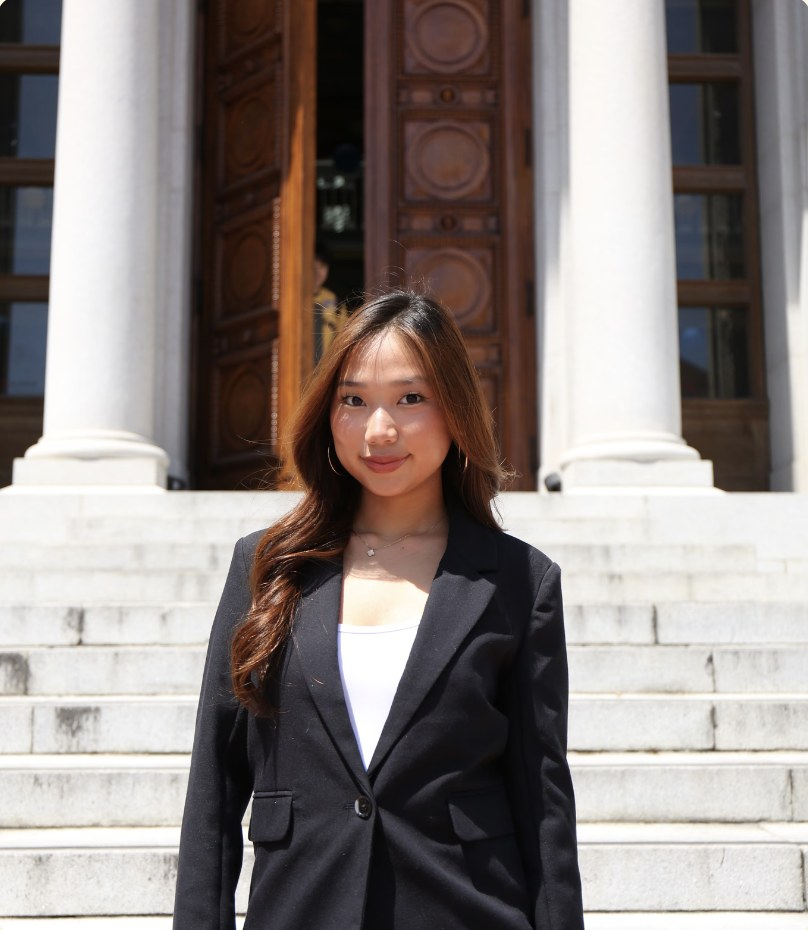
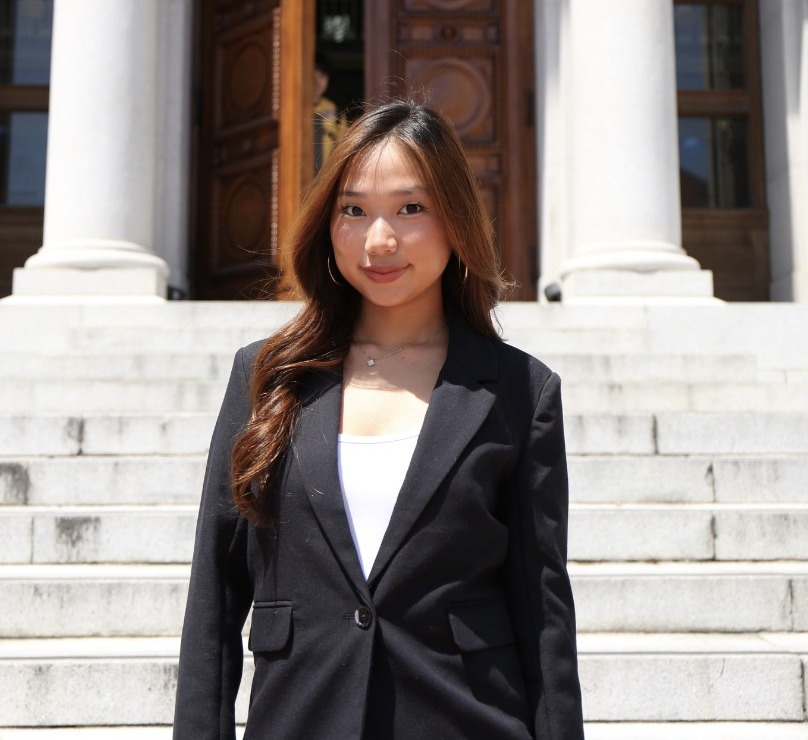
Add files via upload

diff --git a/index.html b/index.html
@@ -18,7 +18,7 @@
 <body>
 <div class="site" id="top" style="--accent: #6B1F1F">
 <header class="nav">
-  <a class="brand" href="#top">Jennie <i>Jeong</i><span class="dot" aria-hidden="true"></span></a>
+  <a class="brand" href="#top" aria-label="Jennie Jeong, home"><span class="mark" aria-hidden="true"><svg class="m-girl" viewBox="0 0 278 310"><image href="/avatar-base.png" x="0" y="0" width="278" height="310"></image><ellipse cx="84" cy="177" rx="7" ry="8" fill="#000"></ellipse><ellipse cx="176" cy="180" rx="7" ry="8" fill="#000"></ellipse><path d="M106 212Q130 228 154 212" fill="none" stroke="#8D3B38" stroke-width="11" stroke-linecap="round"></path></svg><svg class="m-j" viewBox="0 0 100 100"><text x="42" y="92" text-anchor="middle" font-size="118" fill="currentColor" style="font-family: var(--italic, 'Instrument Serif'), serif; font-style: italic">J</text><path class="spk" fill="currentColor" d="M80 6 C81.68 18.32 81.68 18.32 94 20 C81.68 21.68 81.68 21.68 80 34 C78.32 21.68 78.32 21.68 66 20 C78.32 18.32 78.32 18.32 80 6Z"></path></svg></span></a>
   <nav aria-label="Primary">
     <ul class="links">
       <li><a class="ul" href="#about">About</a></li>
@@ -52,10 +52,10 @@
   <div class="wrap">
     <div class="hero-grid">
       <h1 class="headline">
-        <span class="ln l1"><span class="ln-i">Hi, I’m Jennie, a</span></span>
-        <span class="ln l2"><span class="ln-i">Pr<span class="sr">o</span><span class="avatar"><svg class="avatar-img" viewBox="0 0 278 310" aria-hidden="true"><g class="bob"><image href="/avatar-base.png" x="0" y="0" width="278" height="310"></image><g class="face on"><g class="pop"><ellipse cx="84" cy="177" rx="7" ry="8" fill="#000"></ellipse><ellipse cx="176" cy="180" rx="7" ry="8" fill="#000"></ellipse><path d="M106 212Q130 228 154 212" fill="none" stroke="#8D3B38" stroke-width="11" stroke-linecap="round"></path></g></g><g class="face"><g class="pop"><ellipse cx="84" cy="177" rx="7" ry="8" fill="#000"></ellipse><path d="M166 183q10-11 20 0" fill="none" stroke="#000" stroke-width="5.5" stroke-linecap="round"></path><path d="M106 212Q130 228 154 212" fill="none" stroke="#8D3B38" stroke-width="11" stroke-linecap="round"></path></g></g><g class="face"><g class="pop"><ellipse cx="84" cy="176" rx="8.5" ry="10" fill="#000"></ellipse><ellipse cx="176" cy="179" rx="8.5" ry="10" fill="#000"></ellipse><circle cx="87" cy="172" r="2.6" fill="#FAF4E3"></circle><circle cx="179" cy="175" r="2.6" fill="#FAF4E3"></circle><ellipse cx="130" cy="220" rx="9" ry="11" fill="#8D3B38"></ellipse></g></g><g class="face"><g class="pop"><path d="M74 180q10-11 20 0M166 183q10-11 20 0" fill="none" stroke="#000" stroke-width="5.5" stroke-linecap="round"></path><path d="M124 207q14 3 4 10q12 4 -3 11" fill="none" stroke="#8D3B38" stroke-width="7" stroke-linecap="round" stroke-linejoin="round"></path><path d="M168 222c-4-7-14-4-12 4 2 6 12 11 12 11s10-5 12-11c2-8-8-11-12-4z" fill="#8D3B38"></path></g></g><g class="face"><g class="pop"><path d="M74 180q10-12 20 0M166 183q10-12 20 0" fill="none" stroke="#000" stroke-width="5.5" stroke-linecap="round"></path><path d="M108 208h44q-2 24-22 24t-22-24z" fill="#8D3B38" stroke="#8D3B38" stroke-width="4" stroke-linejoin="round"></path></g></g></g></svg></span>duct Designer</span></span>
-        <span class="ln l3"><span class="ln-i">focused on clarity,</span></span>
-        <span class="ln l3"><span class="ln-i">users &amp; impact.</span></span>
+        <span class="ln l1"><span class="ln-i"><span class="wd"><span class="ch">H</span><span class="ch">i</span><span class="ch">,</span></span> <span class="wd"><span class="ch">I</span><span class="ch">’</span><span class="ch">m</span></span> <span class="wd"><span class="ch">J</span><span class="ch">e</span><span class="ch">n</span><span class="ch">n</span><span class="ch">i</span><span class="ch">e</span><span class="ch">,</span></span> <span class="wd"><span class="ch">a</span></span></span></span>
+        <span class="ln l2"><span class="ln-i"><span class="wd"><span class="ch">P</span><span class="ch">r</span></span><span class="sr">o</span><span class="avatar"><svg class="avatar-img" viewBox="0 0 278 310" aria-hidden="true"><g class="bob"><image href="/avatar-base.png" x="0" y="0" width="278" height="310"></image><g class="face on"><g class="pop"><ellipse cx="84" cy="177" rx="7" ry="8" fill="#000"></ellipse><ellipse cx="176" cy="180" rx="7" ry="8" fill="#000"></ellipse><path d="M106 212Q130 228 154 212" fill="none" stroke="#8D3B38" stroke-width="11" stroke-linecap="round"></path></g></g><g class="face"><g class="pop"><ellipse cx="84" cy="177" rx="7" ry="8" fill="#000"></ellipse><path d="M166 183q10-11 20 0" fill="none" stroke="#000" stroke-width="5.5" stroke-linecap="round"></path><path d="M106 212Q130 228 154 212" fill="none" stroke="#8D3B38" stroke-width="11" stroke-linecap="round"></path></g></g><g class="face"><g class="pop"><ellipse cx="84" cy="176" rx="8.5" ry="10" fill="#000"></ellipse><ellipse cx="176" cy="179" rx="8.5" ry="10" fill="#000"></ellipse><circle cx="87" cy="172" r="2.6" fill="#FAF4E3"></circle><circle cx="179" cy="175" r="2.6" fill="#FAF4E3"></circle><ellipse cx="130" cy="220" rx="9" ry="11" fill="#8D3B38"></ellipse></g></g><g class="face"><g class="pop"><path d="M74 180q10-11 20 0M166 183q10-11 20 0" fill="none" stroke="#000" stroke-width="5.5" stroke-linecap="round"></path><path d="M124 207q14 3 4 10q12 4 -3 11" fill="none" stroke="#8D3B38" stroke-width="7" stroke-linecap="round" stroke-linejoin="round"></path><path d="M168 222c-4-7-14-4-12 4 2 6 12 11 12 11s10-5 12-11c2-8-8-11-12-4z" fill="#8D3B38"></path></g></g><g class="face"><g class="pop"><path d="M74 180q10-12 20 0M166 183q10-12 20 0" fill="none" stroke="#000" stroke-width="5.5" stroke-linecap="round"></path><path d="M108 208h44q-2 24-22 24t-22-24z" fill="#8D3B38" stroke="#8D3B38" stroke-width="4" stroke-linejoin="round"></path></g></g></g></svg></span><span class="wd"><span class="ch">d</span><span class="ch">u</span><span class="ch">c</span><span class="ch">t</span></span> <span class="wd"><span class="ch">D</span><span class="ch">e</span><span class="ch">s</span><span class="ch">i</span><span class="ch">g</span><span class="ch">n</span><span class="ch">e</span><span class="ch">r</span></span></span></span>
+        <span class="ln l3"><span class="ln-i"><span class="wd"><span class="ch">f</span><span class="ch">o</span><span class="ch">c</span><span class="ch">u</span><span class="ch">s</span><span class="ch">e</span><span class="ch">d</span></span> <span class="wd"><span class="ch">o</span><span class="ch">n</span></span> <span class="wd"><span class="ch">c</span><span class="ch">l</span><span class="ch">a</span><span class="ch">r</span><span class="ch">i</span><span class="ch">t</span><span class="ch">y</span><span class="ch">,</span></span></span></span>
+        <span class="ln l3"><span class="ln-i"><span class="wd"><span class="ch">u</span><span class="ch">s</span><span class="ch">e</span><span class="ch">r</span><span class="ch">s</span></span> <span class="wd"><span class="ch">&amp;</span></span> <span class="wd"><span class="ch">i</span><span class="ch">m</span><span class="ch">p</span><span class="ch">a</span><span class="ch">c</span><span class="ch">t</span><span class="ch">.</span></span></span></span>
       </h1>
     </div>
   </div>
@@ -76,6 +76,7 @@
     <span class="tag">Home Baker</span>
     <span class="tag proj cf" data-proj="cf">ConnectED Fellows</span>
     <span class="tag proj syn" data-proj="syn">SYNAPP</span>
+    <span class="tag proj clv" data-proj="clv">Clover</span>
   </div>
 
   <div class="peek" data-proj="cf" aria-hidden="true">
@@ -88,6 +89,12 @@
     <div class="peek-in">
       <div class="peek-img"><img src="/synapp-cover.jpg" alt=""><span class="lid l" aria-hidden="true"><i></i></span><span class="lid r" aria-hidden="true"><i></i></span></div>
       <div class="peek-t">SYNAPP<span>Product Design + PM</span></div>
+    </div>
+  </div>
+  <div class="peek" data-proj="clv" aria-hidden="true">
+    <div class="peek-in">
+      <div class="peek-img"><img src="/clover-cover.jpg" alt=""></div>
+      <div class="peek-t">Clover<span>Shared kitchen app, in progress</span></div>
     </div>
   </div>
 </section>
@@ -113,6 +120,22 @@
         </div>
         <p>A speculative wellness app that turns your body’s signals into a living brain map.</p>
       </a>
+      <div class="wcard rv" style="cursor: default" data-cursor="Coming soon">
+        <div class="wimg" style="background: #252525"><img src="/mpower-cover.jpg" alt="M’Power Rhythm logo: a djembe drum beside the wordmark"><span style="position: absolute; top: 16px; left: 16px; display: inline-flex; align-items: center; gap: 8px; padding: 7px 14px; border-radius: 999px; background: #FAF4E3; color: #6B1F1F; font-size: 12px; font-weight: 600; letter-spacing: .12em; text-transform: uppercase"><span style="width: 7px; height: 7px; border-radius: 50%; background: #6B1F1F"></span>In progress</span></div>
+        <div class="wmeta">
+          <h3>M’Power Rhythm</h3>
+          <div class="wtags"><span>Design Lead</span><span>Nonprofit</span><span>2026–27</span></div>
+        </div>
+        <p>Leading 6 designers on a WordPress redesign that helps youth and families find free African drumming programs, with Develop for Good.</p>
+      </div>
+      <a class="wcard rv" href="https://fringe-xylophone-b5b.notion.site/DESINV-15-Clover-3fb32dec8f1d8038a15ac446d9afee8f" target="_blank" rel="noopener" data-cursor="View">
+        <div class="wimg" style="background: #DCEBCB"><img src="/clover-cover.jpg" alt="Clover cover: a green four-leaf clover on pale green"><span style="position: absolute; top: 16px; left: 16px; display: inline-flex; align-items: center; gap: 8px; padding: 7px 14px; border-radius: 999px; background: #FAF4E3; color: #6B1F1F; font-size: 12px; font-weight: 600; letter-spacing: .12em; text-transform: uppercase"><span style="width: 7px; height: 7px; border-radius: 50%; background: #6B1F1F"></span>In progress</span></div>
+        <div class="wmeta">
+          <h3>Clover</h3>
+          <div class="wtags"><span>Product Design</span><span>Course Project</span><span>2026</span></div>
+        </div>
+        <p>A shared kitchen app that helps college students cook together, track groceries, and cut food waste. Team project for DES INV 15.</p>
+      </a>
     </div>
   </div>
 </section>
@@ -129,7 +152,7 @@
         <circle cx="70" cy="70" r="66" fill="#FAF4E3" stroke="#6B1F1F" stroke-width="1.5"></circle>
         <g class="spin">
           <defs><path id="circ" d="M70,70 m-48,0 a48,48 0 1,1 96,0 a48,48 0 1,1 -96,0"></path></defs>
-          <text font-family="DM Sans, sans-serif" font-size="12.5" font-weight="600" letter-spacing="3.2" fill="#6B1F1F"><textPath href="#circ">DESIGN · COGSCI · DATA · DESIGN · COGSCI · DATA ·</textPath></text>
+          <text font-family="DM Sans, sans-serif" font-size="11" font-weight="600" letter-spacing="2.2" fill="#6B1F1F"><textPath href="#circ" textLength="298" lengthAdjust="spacing">COGSCI · DATA SCIENCE · DESIGN ·</textPath></text>
         </g>
         <path d="M70 52l4.4 13.6L88 70l-13.6 4.4L70 88l-4.4-13.6L52 70l13.6-4.4z" fill="#6B1F1F"></path>
       </svg>
@@ -137,11 +160,11 @@
 
     <div class="copy">
       <h2 id="about-title" class="rv">Hi, I’m Jennie!</h2>
-      <p class="big rv">I’m an undergraduate student at UC Berkeley studying Cognitive Science, Data Science, and Design. I work across <b>product design</b>, <b>strategy</b>, and <b>UX research</b> with a belief that great products are built on radical <b>clarity</b>, <b>user</b> empathy, and real-world <b>impact</b>.</p>
-      <p class="body rv">My work centers around <b>uncovering</b> what users truly <b>need</b> and translating those insights into clean, intentional product experiences. Whether I’m conducting user research, shaping product strategy, or designing end-to-end interactions, I always prioritize <b>purpose</b> over guesswork.</p>
+      <p class="big rv">I’m a student at UC Berkeley studying Cognitive Science, Data Science, and Design Innovation, and I love spending time thinking about <b>how people think</b> and why we’re drawn to certain <b>design choices</b> from a psychological and neurological perspective.</p>
+      <p class="body rv">I work across product design, management, and UX, discovering what users actually need, the stuff they don’t always say out loud, and shaping it into products that feel <b>clear</b>, <b>human</b>, and genuinely <b>useful</b>. I have experience working on diverse <b>tech for social good</b> projects across education and am always looking for more ways to connect tech with <b>small businesses</b> to make more intentional design choices.</p>
       <dl class="rv">
-        <div><dt>I work across</dt><dd>Product design, strategy, UX research</dd></div>
-        <div><dt>Studying</dt><dd>Cognitive Science, Data Science, Design</dd></div>
+        <div><dt>I work across</dt><dd>Product design, management, UX</dd></div>
+        <div><dt>Studying</dt><dd>Cognitive Science, Data Science, Design Innovation</dd></div>
         <div><dt>Off-screen</dt><dd>Baking, hopping around local cafes, shopping for matcha powders</dd></div>
       </dl>
     </div>
@@ -151,7 +174,9 @@
 
 <a class="sr" data-proj="cf" href="/works/connected-fellows" tabindex="-1" aria-hidden="true">ConnectED Fellows</a>
 <a class="sr" data-proj="syn" href="/works/synapp" tabindex="-1" aria-hidden="true">SYNAPP</a>
+<a class="sr" data-proj="clv" href="https://fringe-xylophone-b5b.notion.site/DESINV-15-Clover-3fb32dec8f1d8038a15ac446d9afee8f" tabindex="-1" aria-hidden="true">Clover</a>
 <footer class="foot" id="contact" aria-labelledby="contact-title">
+  <div class="trail" aria-hidden="true"><img src="/life-01.webp" alt="" loading="lazy"><img src="/life-02.webp" alt="" loading="lazy"><img src="/life-03.webp" alt="" loading="lazy"><img src="/life-04.webp" alt="" loading="lazy"><img src="/life-05.webp" alt="" loading="lazy"><img src="/life-06.webp" alt="" loading="lazy"><img src="/life-07.webp" alt="" loading="lazy"><img src="/life-08.webp" alt="" loading="lazy"><img src="/life-09.webp" alt="" loading="lazy"><img src="/life-10.webp" alt="" loading="lazy"><img src="/life-11.webp" alt="" loading="lazy"><img src="/life-12.webp" alt="" loading="lazy"><img src="/life-13.webp" alt="" loading="lazy"><img src="/life-14.webp" alt="" loading="lazy"><img src="/life-15.webp" alt="" loading="lazy"><img src="/life-16.webp" alt="" loading="lazy"><img src="/life-17.webp" alt="" loading="lazy"><img src="/life-18.webp" alt="" loading="lazy"></div>
   <div class="wrap inner">
     <h2 id="contact-title" class="rv">Thanks for <span class="serif">Visiting!</span></h2>
     <div class="row">

diff --git a/connected-fellows.html b/connected-fellows.html
@@ -18,7 +18,7 @@
 <body>
 <div class="site" id="top" style="--accent: #6B1F1F">
 <header class="nav">
-  <a class="brand" href="/">Jennie <i>Jeong</i><span class="dot" aria-hidden="true"></span></a>
+  <a class="brand" href="/" aria-label="Jennie Jeong, home"><span class="mark" aria-hidden="true"><svg class="m-girl" viewBox="0 0 278 310"><image href="/avatar-base.png" x="0" y="0" width="278" height="310"></image><ellipse cx="84" cy="177" rx="7" ry="8" fill="#000"></ellipse><ellipse cx="176" cy="180" rx="7" ry="8" fill="#000"></ellipse><path d="M106 212Q130 228 154 212" fill="none" stroke="#8D3B38" stroke-width="11" stroke-linecap="round"></path></svg><svg class="m-j" viewBox="0 0 100 100"><text x="42" y="92" text-anchor="middle" font-size="118" fill="currentColor" style="font-family: var(--italic, 'Instrument Serif'), serif; font-style: italic">J</text><path class="spk" fill="currentColor" d="M80 6 C81.68 18.32 81.68 18.32 94 20 C81.68 21.68 81.68 21.68 80 34 C78.32 21.68 78.32 21.68 66 20 C78.32 18.32 78.32 18.32 80 6Z"></path></svg></span></a>
   <nav aria-label="Primary">
     <ul class="links">
       <li><a class="ul" href="/#about">About</a></li>
@@ -210,6 +210,7 @@
 </main>
 
 <footer class="foot" id="contact" aria-labelledby="contact-title">
+  <div class="trail" aria-hidden="true"><img src="/life-01.webp" alt="" loading="lazy"><img src="/life-02.webp" alt="" loading="lazy"><img src="/life-03.webp" alt="" loading="lazy"><img src="/life-04.webp" alt="" loading="lazy"><img src="/life-05.webp" alt="" loading="lazy"><img src="/life-06.webp" alt="" loading="lazy"><img src="/life-07.webp" alt="" loading="lazy"><img src="/life-08.webp" alt="" loading="lazy"><img src="/life-09.webp" alt="" loading="lazy"><img src="/life-10.webp" alt="" loading="lazy"><img src="/life-11.webp" alt="" loading="lazy"><img src="/life-12.webp" alt="" loading="lazy"><img src="/life-13.webp" alt="" loading="lazy"><img src="/life-14.webp" alt="" loading="lazy"><img src="/life-15.webp" alt="" loading="lazy"><img src="/life-16.webp" alt="" loading="lazy"><img src="/life-17.webp" alt="" loading="lazy"><img src="/life-18.webp" alt="" loading="lazy"></div>
   <div class="wrap inner">
     <h2 id="contact-title" class="rv">Thanks for <span class="serif">Visiting!</span></h2>
     <div class="row">

diff --git a/synapp.html b/synapp.html
@@ -18,7 +18,7 @@
 <body>
 <div class="site" id="top" style="--accent: #6B1F1F">
 <header class="nav">
-  <a class="brand" href="/">Jennie <i>Jeong</i><span class="dot" aria-hidden="true"></span></a>
+  <a class="brand" href="/" aria-label="Jennie Jeong, home"><span class="mark" aria-hidden="true"><svg class="m-girl" viewBox="0 0 278 310"><image href="/avatar-base.png" x="0" y="0" width="278" height="310"></image><ellipse cx="84" cy="177" rx="7" ry="8" fill="#000"></ellipse><ellipse cx="176" cy="180" rx="7" ry="8" fill="#000"></ellipse><path d="M106 212Q130 228 154 212" fill="none" stroke="#8D3B38" stroke-width="11" stroke-linecap="round"></path></svg><svg class="m-j" viewBox="0 0 100 100"><text x="42" y="92" text-anchor="middle" font-size="118" fill="currentColor" style="font-family: var(--italic, 'Instrument Serif'), serif; font-style: italic">J</text><path class="spk" fill="currentColor" d="M80 6 C81.68 18.32 81.68 18.32 94 20 C81.68 21.68 81.68 21.68 80 34 C78.32 21.68 78.32 21.68 66 20 C78.32 18.32 78.32 18.32 80 6Z"></path></svg></span></a>
   <nav aria-label="Primary">
     <ul class="links">
       <li><a class="ul" href="/#about">About</a></li>
@@ -116,6 +116,7 @@
 </main>
 
 <footer class="foot" id="contact" aria-labelledby="contact-title">
+  <div class="trail" aria-hidden="true"><img src="/life-01.webp" alt="" loading="lazy"><img src="/life-02.webp" alt="" loading="lazy"><img src="/life-03.webp" alt="" loading="lazy"><img src="/life-04.webp" alt="" loading="lazy"><img src="/life-05.webp" alt="" loading="lazy"><img src="/life-06.webp" alt="" loading="lazy"><img src="/life-07.webp" alt="" loading="lazy"><img src="/life-08.webp" alt="" loading="lazy"><img src="/life-09.webp" alt="" loading="lazy"><img src="/life-10.webp" alt="" loading="lazy"><img src="/life-11.webp" alt="" loading="lazy"><img src="/life-12.webp" alt="" loading="lazy"><img src="/life-13.webp" alt="" loading="lazy"><img src="/life-14.webp" alt="" loading="lazy"><img src="/life-15.webp" alt="" loading="lazy"><img src="/life-16.webp" alt="" loading="lazy"><img src="/life-17.webp" alt="" loading="lazy"><img src="/life-18.webp" alt="" loading="lazy"></div>
   <div class="wrap inner">
     <h2 id="contact-title" class="rv">Thanks for <span class="serif">Visiting!</span></h2>
     <div class="row">

diff --git a/home.js b/home.js
@@ -328,5 +328,36 @@
         new Promise((r) => setTimeout(r, 2500))
       ])
     : Promise.resolve();
-  ready.then(() => { fitHeadline(); initIntro(); initPhysics(); });
+  /* ---------- hero headline: letters lift toward the cursor ---------- */
+  function initHeroHover() {
+    const gsap = window.gsap, hero = document.querySelector('.hero');
+    if (!gsap || !hero || reduced || !window.matchMedia('(hover: hover) and (pointer: fine)').matches) return;
+    if (!document.getElementById('jj-ch-style')) {
+      const st = document.createElement('style'); st.id = 'jj-ch-style';
+      st.textContent = '.headline .wd{display:inline-block;white-space:nowrap}.headline .ch{display:inline-block;will-change:transform;transform-origin:50% 80%}';
+      document.head.appendChild(st);
+    }
+    const qs = Array.prototype.slice.call(hero.querySelectorAll('.headline .ch')).map((el) => ({
+      el: el,
+      y: gsap.quickTo(el, 'y', { duration: 0.55, ease: 'power3.out' }),
+      r: gsap.quickTo(el, 'rotate', { duration: 0.55, ease: 'power3.out' }),
+      s: gsap.quickTo(el, 'scale', { duration: 0.55, ease: 'power3.out' })
+    }));
+    if (!qs.length) return;
+    const R = 220;
+    const move = (e) => {
+      for (const q of qs) {
+        const b = q.el.getBoundingClientRect(), fs = b.height || 40;
+        const cx = b.left + b.width / 2, cy = b.top + b.height / 2 - (gsap.getProperty(q.el, 'y') || 0);
+        const dx = cx - e.clientX, dy = cy - e.clientY, d = Math.hypot(dx, dy);
+        let t = Math.max(0, 1 - d / R); t = t * t * (3 - 2 * t);
+        q.y(-0.12 * fs * t); q.r((dx / R) * 8 * t); q.s(1 + 0.05 * t);
+      }
+    };
+    const leave = () => { for (const q of qs) { q.y(0); q.r(0); q.s(1); } };
+    hero.addEventListener('pointermove', move);
+    hero.addEventListener('pointerleave', leave);
+  }
+
+  ready.then(() => { fitHeadline(); initIntro(); initPhysics(); initHeroHover(); });
 })();

diff --git a/site.css b/site.css
@@ -149,3 +149,22 @@ a{color:inherit}
 
 /* static export */
 .mobile-menu[hidden]{display:none}
+
+/* footer photo trail */
+.foot .trail{position:absolute;inset:0;pointer-events:none;z-index:0;overflow:hidden}
+.foot .trail img{position:absolute;left:0;top:0;width:clamp(84px,7.5vw,118px);aspect-ratio:3/4;object-fit:cover;border-radius:10px;opacity:0;box-shadow:0 18px 40px -12px rgba(0,0,0,.5);will-change:transform,opacity}
+.foot .inner{position:relative;z-index:1}
+/* corners: tight at rest, rounder on hover */
+.frame,.wimg,.peek-in,.about .portrait,.about .portrait .ph,.cs-hero .cover,.psr article,.stat,.callout,.goal,.sw,.metric,.ph,.next .img{border-radius:8px;transition:border-radius .5s cubic-bezier(.2,.7,.2,1)}
+.peek-img,.pic img,.ph-img{border-radius:6px;transition:border-radius .5s cubic-bezier(.2,.7,.2,1)}
+.about .portrait>div{border-radius:inherit!important}
+.wcard:hover .wimg,.frame:hover,.about .portrait:hover,.about .portrait:hover .ph,.cs-hero .cover:hover,.psr article:hover,.stat:hover,.callout:hover,.goal:hover,.sw:hover,.metric:hover,.ph:hover,.next a:hover .img,.next .img:hover{border-radius:28px}
+.pic img:hover,.ph:hover .ph-img{border-radius:22px}
+
+/* nav logo: girl, J + sparkle on hover */
+.brand .mark{position:relative;display:inline-block;width:44px;height:48px;color:var(--accent,#6B1F1F)}
+.brand .mark svg{position:absolute;inset:0;width:100%;height:100%;overflow:visible;transition:opacity .3s ease,transform .45s cubic-bezier(.2,.8,.2,1)}
+.brand .m-girl{opacity:0;transform:scale(.7) rotate(10deg)}
+.brand:hover .m-j,.brand:focus-visible .m-j{opacity:0;transform:scale(.7) rotate(-10deg)}
+.brand:hover .m-girl,.brand:focus-visible .m-girl{opacity:1;transform:none}
+.cursor span{text-align:center;line-height:1.15}

diff --git a/home.css b/home.css
@@ -104,3 +104,14 @@
 .spin{animation:spin 22s linear infinite;transform-origin:50% 50%}
 @keyframes spin{to{transform:rotate(360deg)}}
 @media (prefers-reduced-motion:reduce){.spin{animation:none}}
+/* corners: tight at rest, rounder on hover */
+.frame,.wimg,.peek-in,.about .portrait,.about .portrait .ph,.cs-hero .cover,.psr article,.stat,.callout,.goal,.sw,.metric,.ph,.next .img{border-radius:8px;transition:border-radius .5s cubic-bezier(.2,.7,.2,1)}
+.peek-img,.pic img,.ph-img{border-radius:6px;transition:border-radius .5s cubic-bezier(.2,.7,.2,1)}
+.about .portrait>div{border-radius:inherit!important}
+.wcard:hover .wimg,.frame:hover,.about .portrait:hover,.about .portrait:hover .ph,.cs-hero .cover:hover,.psr article:hover,.stat:hover,.callout:hover,.goal:hover,.sw:hover,.metric:hover,.ph:hover,.next a:hover .img,.next .img:hover{border-radius:28px}
+.pic img:hover,.ph:hover .ph-img{border-radius:22px}
+:is(.site,body) .tags .tag.proj.syn,:is(.site,body) .tags .tag.proj.syn:hover,:is(.site,body) .tags .tag.proj.syn[data-held]{background:linear-gradient(115deg,#050505 0%,#1A1A1A 55%,#F2C230 130%);color:#FFD23F;text-shadow:0 0 14px rgba(255,210,63,.55)}
+:is(.site,body) .veil[data-hot="syn"] .ring,:is(.site,body) .veil[data-hot="syn"] .burst{background:linear-gradient(115deg,#050505 0%,#1A1A1A 55%,#F2C230 130%)}
+:is(.site,body) .tags .tag.proj.clv,:is(.site,body) .tags .tag.proj.clv:hover,:is(.site,body) .tags .tag.proj.clv[data-held]{background:linear-gradient(115deg,#2E6B2B 0%,#5DA653 55%,#BFE3A8 120%);color:#fff}
+:is(.site,body) .veil[data-hot="clv"] .ring,:is(.site,body) .veil[data-hot="clv"] .burst{background:linear-gradient(115deg,#2E6B2B 0%,#5DA653 55%,#BFE3A8 120%)}
+.about .copy .big{font-size:18px;line-height:1.6;max-width:52ch}

diff --git a/common.js b/common.js
@@ -93,7 +93,39 @@
     });
   }
 
+
+  /* ---------- footer photo trail (mouse only) ---------- */
+  function initTrail() {
+    const gsap = window.gsap, foot = document.querySelector('.foot'), trail = foot && foot.querySelector('.trail');
+    if (!gsap || !trail || reduced || !window.matchMedia('(hover: hover) and (pointer: fine)').matches) return;
+    const imgs = Array.prototype.slice.call(trail.querySelectorAll('img'));
+    let i = 0, z = 1, last = null;
+    const q = [];
+    let lastOut = 0;
+    const out = (el) => gsap.to(el, { opacity: 0, scale: 0.98, duration: 0.16, ease: 'power1.in', overwrite: 'auto' });
+    const tick = () => {
+      const t = performance.now();
+      while (q.length > 6) { out(q.shift().el); lastOut = t; }
+      if (q.length && t - lastOut > 45 && t - q[0].t > 110) { out(q.shift().el); lastOut = t; }
+    };
+    gsap.ticker.add(tick);
+    foot.addEventListener('pointermove', (e) => {
+      const r = foot.getBoundingClientRect(), x = e.clientX - r.left, y = e.clientY - r.top;
+      if (last && Math.hypot(x - last.x, y - last.y) < 55) return;
+      last = { x: x, y: y };
+      const el = imgs[i % imgs.length]; i++;
+      gsap.killTweensOf(el);
+      el.style.zIndex = ++z;
+      gsap.set(el, { x: x - el.offsetWidth / 2, y: y - el.offsetHeight / 2, rotate: (Math.random() - 0.5) * 6, scale: 0.97, opacity: 0 });
+      gsap.to(el, { opacity: 1, scale: 1, duration: 0.18, ease: 'power2.out' });
+      for (let k = q.length - 1; k >= 0; k--) if (q[k].el === el) q.splice(k, 1);
+      q.push({ el: el, t: performance.now() });
+    });
+    foot.addEventListener('pointerleave', () => { last = null; });
+  }
+
   initCursor();
   initMagnet();
   initReveals();
+  initTrail();
 })();

diff --git a/case.css b/case.css
@@ -126,3 +126,9 @@
 .next .img img{width:100%;height:100%;object-fit:cover;transition:transform 1.2s var(--ease)}
 .next:hover .img img{transform:scale(1.05)}
 @media (max-width:900px){.next .t,.next .img{grid-column:1 / -1}}
+/* corners: tight at rest, rounder on hover */
+.frame,.wimg,.peek-in,.about .portrait,.about .portrait .ph,.cs-hero .cover,.psr article,.stat,.callout,.goal,.sw,.metric,.ph,.next .img{border-radius:8px;transition:border-radius .5s cubic-bezier(.2,.7,.2,1)}
+.peek-img,.pic img,.ph-img{border-radius:6px;transition:border-radius .5s cubic-bezier(.2,.7,.2,1)}
+.about .portrait>div{border-radius:inherit!important}
+.wcard:hover .wimg,.frame:hover,.about .portrait:hover,.about .portrait:hover .ph,.cs-hero .cover:hover,.psr article:hover,.stat:hover,.callout:hover,.goal:hover,.sw:hover,.metric:hover,.ph:hover,.next a:hover .img,.next .img:hover{border-radius:28px}
+.pic img:hover,.ph:hover .ph-img{border-radius:22px}
